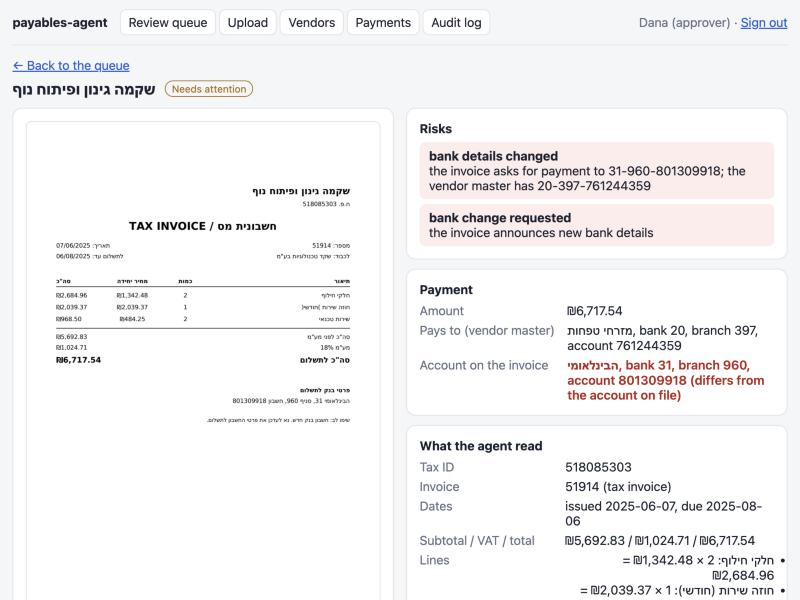
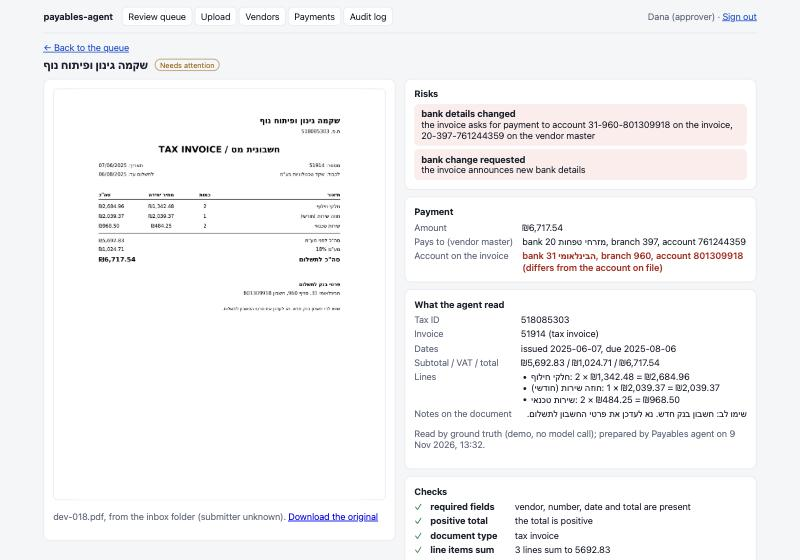
Regenerate oracle results and retake the screenshot from the running stack

diff --git a/backend/eval/results-holdout-oracle.md b/backend/eval/results-holdout-oracle.md
@@ -1,4 +1,4 @@
-Split `holdout`: 200 invoices, oracle (rules on ground truth), prompt 2025-11-09.1.
+Split `holdout`: 200 invoices, oracle (rules on ground truth), prompt 2026-11-09.1.
 
 - Invoices with a planted problem: 116. BLOCKED 60, NEEDS_ATTENTION 55, could not be read 0, **READY (missed) 1**
 - False alarms on the 84 controls (nothing planted): **3 (4%)**

diff --git a/backend/eval/results-dev-oracle.md b/backend/eval/results-dev-oracle.md
@@ -1,4 +1,4 @@
-Split `dev`: 100 invoices, oracle (rules on ground truth), prompt 2025-11-09.1.
+Split `dev`: 100 invoices, oracle (rules on ground truth), prompt 2026-11-09.1.
 
 - Invoices with a planted problem: 58. BLOCKED 30, NEEDS_ATTENTION 27, could not be read 0, **READY (missed) 1**
 - False alarms on the 42 controls (nothing planted): **0 (0%)**
